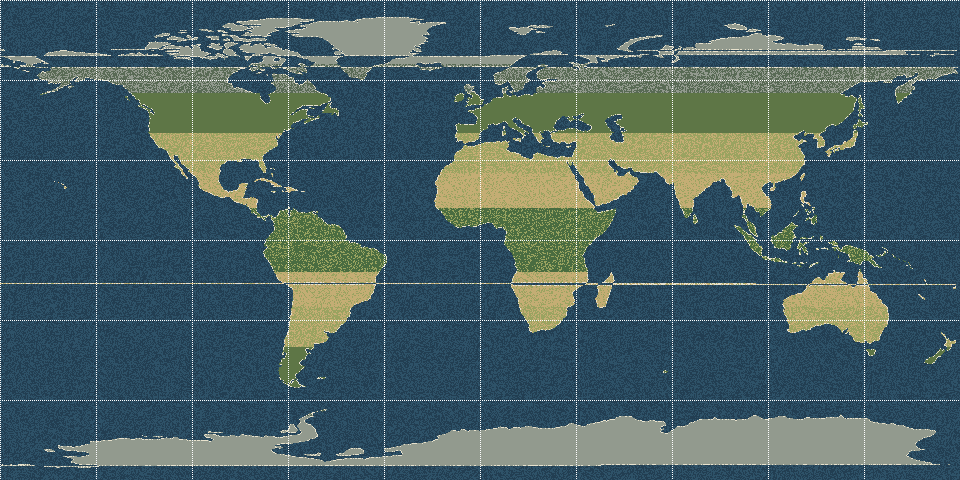
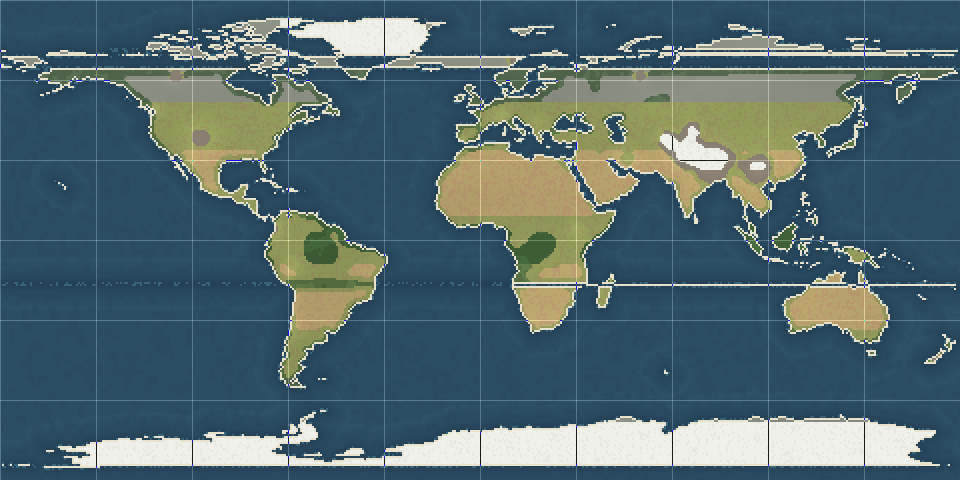
美术地图 v2：真实地形自然化（A 方案深度优化）
- fBm 噪声（value noise 3 seed）替代平直纬度带：高山岩雪/丘陵起伏/湿润斑块扭曲色带
- 修复根因：陆地湿度距离场方向颠倒（内陆全被判湿润）；引入独立陆地距海岸距离场
- 湿润半径 30px→9px（真实大陆平均距海 460km）；高纬针叶林湿度修正
- 真实地理点位驱动：19 条山系（含安第斯三段/天山/乌拉尔）+ 8 大沙漠区 + 5 雨林区 + 两河/尼罗绿洲带
- 海洋：海岸距离场深度渐变 + 波纹 + 浅滩亮斑；2×2 像素簇上采样（像素画块感）+ 植被材质噪点
- 18 个真实地理点位逐格自检全部合理（撒哈拉/亚马逊/西伯利亚针叶/南极冰盖等）
- biome 视觉占比：森林 35.5 苔原 17.3 雪 14.1 针叶 11.0 雨林 8.7 草原 8.0 沙漠 4.7 岩 0.6

diff --git a/public/art-gallery.html b/public/art-gallery.html
@@ -30,9 +30,11 @@
   <h2>大世界地图（真实 Natural Earth 数据像素化 · public domain）</h2>
   <div class="cards">
     <div class="card">
-      <div class="label">A. 海图风<span class="no">编号 A</span></div>
+      <div class="label">A. 海图风（v2 自然地形）<span class="no">编号 A</span></div>
       <img src="/art-preview/map-a-ocean.png" alt="海图风">
-      <div class="note">深蓝海洋 + 四色陆地（雨林/草原/荒漠/苔原）+ 海岸提亮。参考文明系列战略视图。</div>
+      <div class="note">v2：fBm 噪声地形 + 真实山系（喜马拉雅/安第斯/落基山/天山/阿尔卑斯）岩雪；
+      沙漠（撒哈拉/阿拉伯/戈壁/澳洲内陆）与雨林（亚马逊/刚果/印尼）按真实地理点位成型；
+      海岸距离场做海洋深度渐变；2×2 像素簇 + 材质噪点抖动。</div>
     </div>
     <div class="card">
       <div class="label">B. 古籍风<span class="no">编号 B</span></div>
